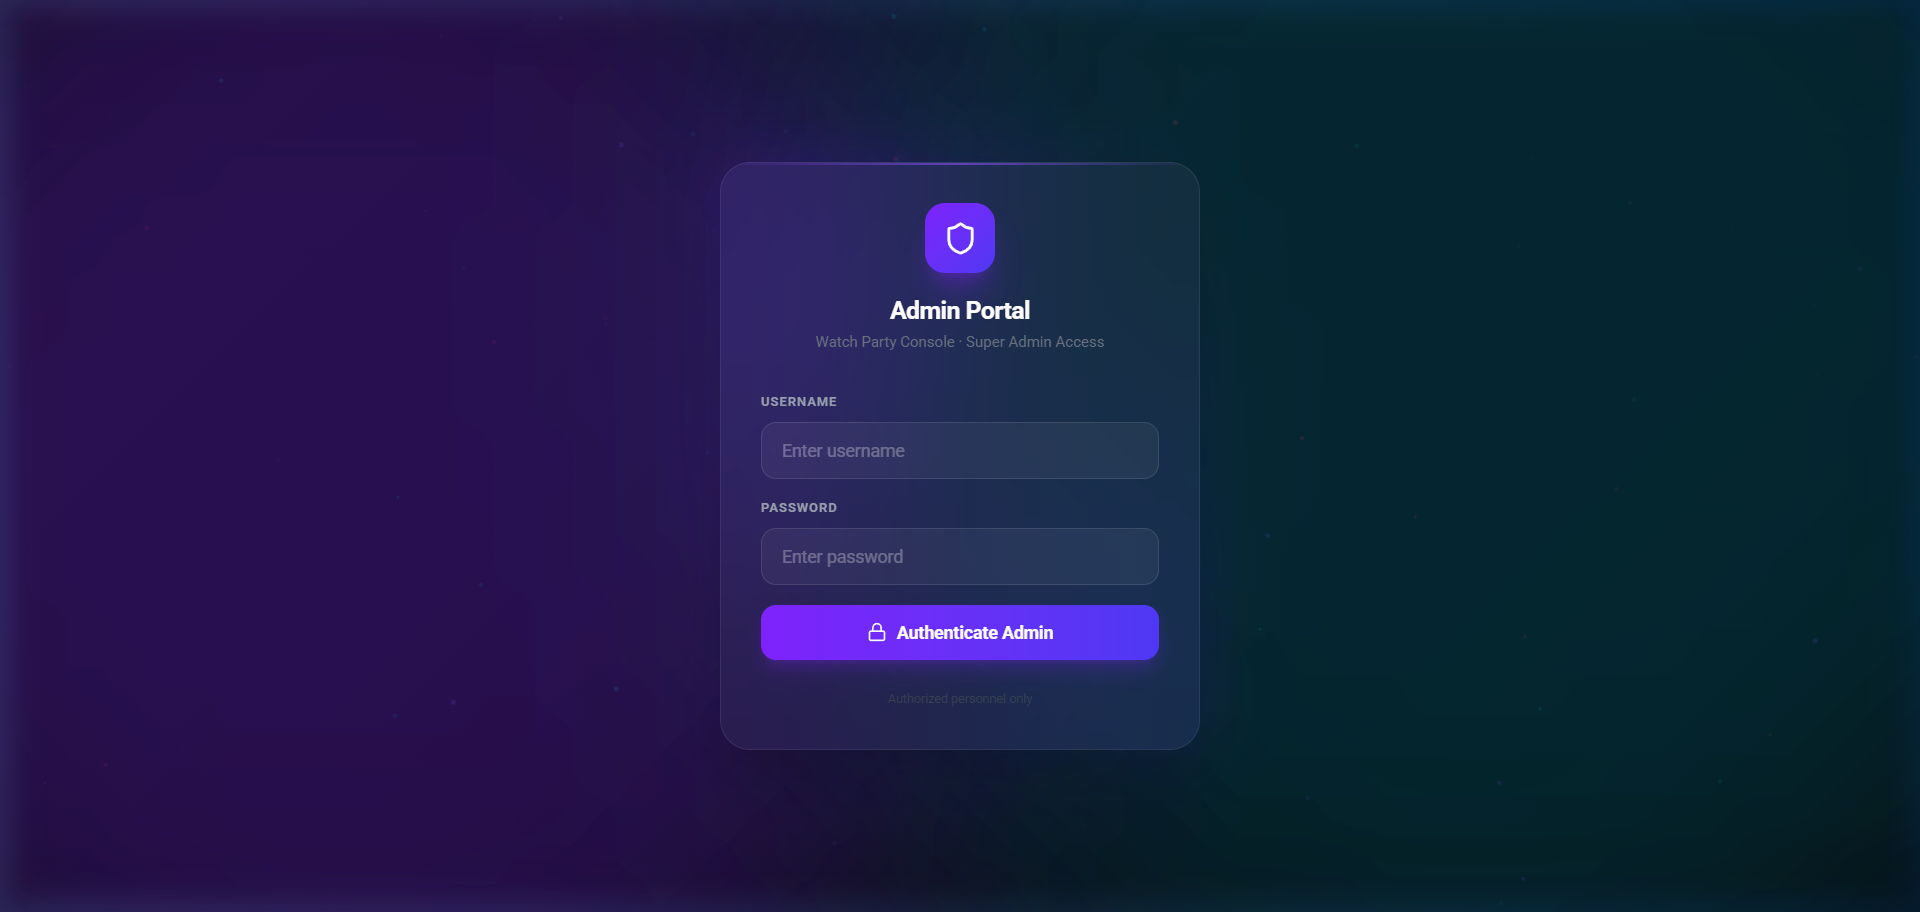
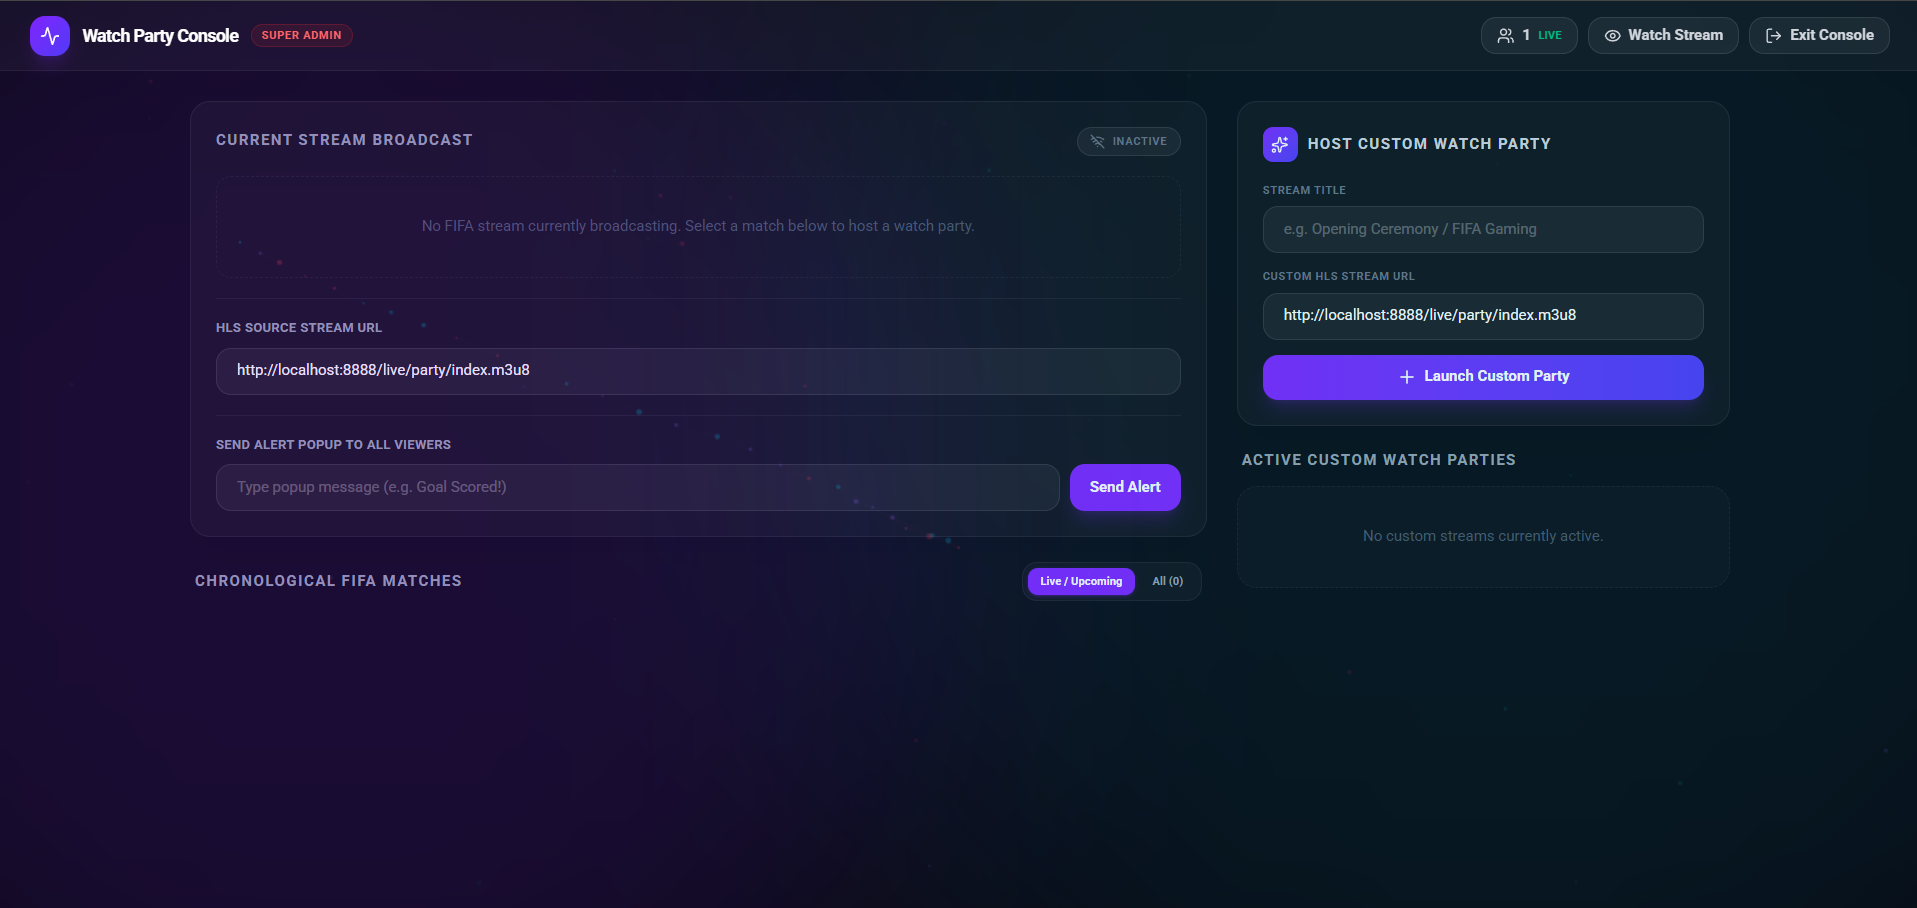
Display both Admin Login Portal and Admin Control Console side-by-side in README

diff --git a/README.md b/README.md
@@ -28,9 +28,18 @@
 </p>
 
 ### ⚡ Admin Control Panel & Stream Broadcast Manager
-<p align="center">
-  <img src="docs/screenshots/admin_dashboard.png" width="100%" alt="Admin Dashboard" />
-</p>
+<table width="100%">
+  <tr>
+    <td width="50%" align="center">
+      <b>1. Password-Protected Admin Login Portal</b><br/><br/>
+      <img src="docs/screenshots/admin_login.png" width="100%" alt="Admin Login Portal" />
+    </td>
+    <td width="50%" align="center">
+      <b>2. Broadcast Controls & Live Stream Console</b><br/><br/>
+      <img src="docs/screenshots/admin_dashboard.png" width="100%" alt="Admin Control Console" />
+    </td>
+  </tr>
+</table>
 
 ### 📱 Mobile Web & Native Android App Experience
 <table width="100%">
